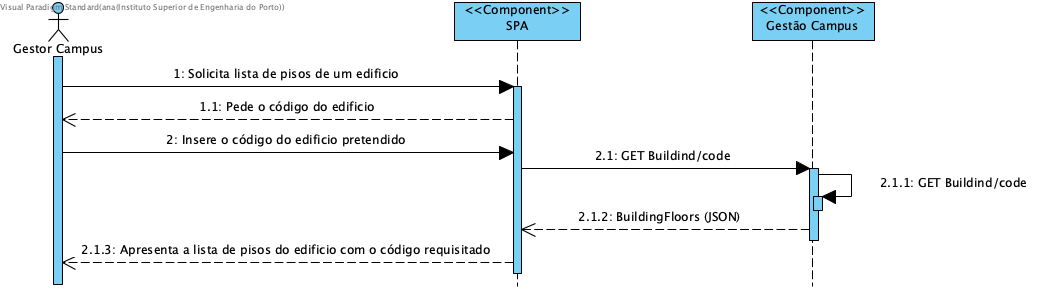
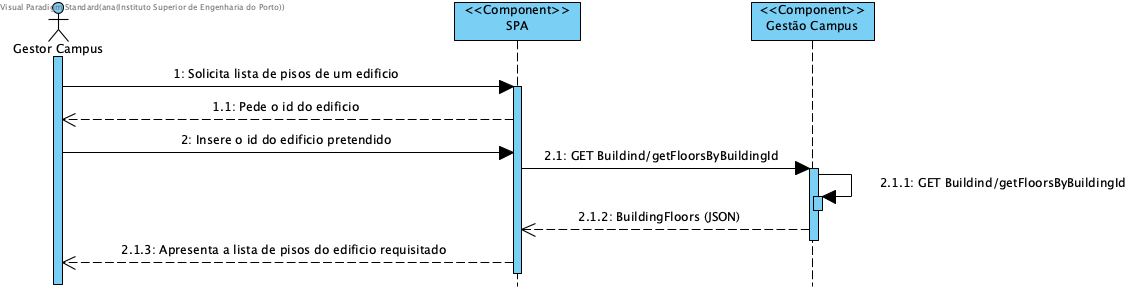
SG3-11 - List all building's floors US210

diff --git a/src/services/buildingService.ts b/src/services/buildingService.ts
@@ -3,18 +3,18 @@ import config from '../../config';
 import { Result } from '../core/logic/Result';
 import IFloorService from './IServices/IFloorService';
 import { IFloorDto } from '../dto/IFloorDto';
-import { Floor } from '../domain/floor';
-import IFloorRepo from './IRepos/IFloorRepo';
 import IBuildingService from './IServices/IBuildingService';
 import IBuildingRepo from './IRepos/IBuildingRepo';
 import { IBuildingDto } from '../dto/IBuildingDto';
 import { Building } from '../domain/building';
+import { BuildingMap } from '../mappers/BuidingMap';
 
 @Service()
 export default class BuildingService implements IBuildingService {
   constructor(
     @Inject(config.repos.building.name) private buildingRepo: IBuildingRepo,
     @Inject('logger') private logger,
+    @Inject('floorService') private floorService: IFloorService
   ) {}
 
   public async save(buildingDto: IBuildingDto): Promise<Result<{ buildingId: string }>> {
@@ -36,4 +36,42 @@ export default class BuildingService implements IBuildingService {
       throw e;
     }
   }
+
+  public async findBuildingByKey(buildingId: string): Promise<Result<IBuildingDto>> {
+    try {
+        const building = await this.buildingRepo.findByDomainId(buildingId);
+
+        if (building === null) {
+            return Result.fail<IBuildingDto>("Truck not found.");
+        } else {
+            const buildingDTOResult = BuildingMap.toDTO(building) as IBuildingDto;
+            return Result.ok<IBuildingDto>(buildingDTOResult)
+        }
+    } catch (e) {
+        throw e;
+    }
+}
+
+public async getFloorsByBuildingId(buildingId: string): Promise<Result<IFloorDto[]>> {
+  try {
+
+    const building = await this.buildingRepo.findByDomainId(buildingId);
+
+    if (building === null) {
+      return Result.fail<IFloorDto[]>("Building not found.");
+    } else {
+      // Once you have the building, you can call the FloorService to get the floors
+      const floors = await this.floorService.getFloorsByBuildingId(buildingId);
+
+      if (floors.isFailure) {
+        return Result.fail<IFloorDto[]>(floors.errorValue());
+      }
+      const floorDTOs = floors.getValue();
+      return Result.ok<IFloorDto[]>(floorDTOs);
+    }
+  } catch (e) {
+    throw e;
+  }
+}
+
 }

diff --git a/src/controllers/buildingController.ts b/src/controllers/buildingController.ts
@@ -16,6 +16,8 @@ export default class BuildingController extends BaseController
   constructor(
     @Inject(config.services.building.name)
     private buildingService: IBuildingService,
+    @Inject(config.services.floor.name)
+    private floorService: IFloorService
   ) {
     super();
   }
@@ -39,4 +41,47 @@ export default class BuildingController extends BaseController
       return next(e);
     }
   }
+
+  public async findBuildingByKey(req: Request, res: Response, next: NextFunction) {
+    try {
+        const buildingId= req.query.buildingId as string;
+
+        if (buildingId === undefined) {
+            return res.status(404).json("Please insert a valid building in the parameters.");
+        }
+
+        const buildingOrError = await this.buildingService.findBuildingByKey(buildingId);
+
+        if (buildingOrError.isFailure) {
+            return res.status(404).json(buildingOrError.error);
+        }
+
+        const buildingDTO = buildingOrError.getValue();
+        return res.status(200).json(buildingDTO);
+    } catch (e) {
+        return next(e);
+    }
+}
+
+public async getFloorsByBuildingId(req: Request, res: Response, next: NextFunction) {
+  try {
+
+    const buildingId = req.query.buildingId as string;
+
+    if (buildingId === undefined) {
+      return res.status(404).json("Building not found");
+    } else {
+
+      const floors = await this.floorService.getFloorsByBuildingId(buildingId);
+
+      if (floors.isFailure) {
+        return Result.fail<IFloorDto[]>(floors.errorValue());
+      }
+      const floorDTOs = floors.getValue();
+      return Result.ok<IFloorDto[]>(floorDTOs);
+    }
+  } catch (e) {
+    throw e;
+  }
+}
 }

diff --git a/src/services/floorService.ts b/src/services/floorService.ts
@@ -5,11 +5,14 @@ import IFloorService from './IServices/IFloorService';
 import { IFloorDto } from '../dto/IFloorDto';
 import { Floor } from '../domain/floor';
 import IFloorRepo from './IRepos/IFloorRepo';
+import IBuildingService from './IServices/IBuildingService';
+import { FloorMap } from '../mappers/FloorMap';
 
 @Service()
 export default class FloorService implements IFloorService {
   constructor(
     @Inject(config.repos.floor.name) private floorRepo: IFloorRepo,
+    @Inject('buildingService') private buildingService: IBuildingService
     @Inject('logger') private logger,
   ) {}
 
@@ -31,4 +34,24 @@ export default class FloorService implements IFloorService {
       throw e;
     }
   }
+
+  public async getFloorsByBuildingId(buildingId: string): Promise<Result<IFloorDto[]>> {
+    try {
+    const buildingExists = await this.buildingService.findBuildingByKey(buildingId);
+
+    if (!buildingExists) {
+      return Result.fail<IFloorDto[]>(`Building with ID ${buildingId} does not exist.`);
+    }
+
+    const floors = await this.floorRepo.findByBuildingId(buildingId);
+    if (!floors) {
+      return Result.fail<IFloorDto[]>(`No floors found for building with ID ${buildingId}.`);
+    }
+    const floorDTOs = floors.map((floor) => FloorMap.toDTO(floor));
+
+      return Result.ok<IFloorDto[]>(floorDTOs);
+    } catch (e) {
+      throw e;
+    }
+}
 }

diff --git a/src/mappers/FloorMap.ts b/src/mappers/FloorMap.ts
@@ -1,6 +1,10 @@
 import { Mapper } from '../core/infra/Mapper';
 import { Room } from '../domain/room';
 import { Floor } from '../domain/floor';
+import { IFloorPersistence } from '../dataschema/IFloorPersistence';
+import { UniqueEntityID } from '../core/domain/UniqueEntityID';
+import { Document, Model } from "mongoose";
+import { IFloorDto } from '../dto/IFloorDto';
 
 export class FloorMap extends Mapper<Floor> {
   public static toPersistence(floor: Floor): any {
@@ -9,5 +13,18 @@ export class FloorMap extends Mapper<Floor> {
       buildingId: floor.buildingId,
       number: floor.number,
     };
+  }
+  public static toDomain (raw: any | Model<IFloorPersistence & Document>): Floor {
+    const floorOrError = Floor.create(raw, new UniqueEntityID(raw.domainId));
+    floorOrError.isFailure ? console.log(floorOrError.error) : '';
+    return floorOrError.isSuccess ? floorOrError.getValue() : null;
+  }
+
+  public static toDTO( floor: Floor): IFloorDto {
+    return {
+      domainId: floor.id.toString(),
+      buildingId: floor.buildingId,
+      number: floor.number,
+    } as IFloorDto;
   }
 }

diff --git a/src/mappers/BuidingMap.ts b/src/mappers/BuidingMap.ts
@@ -2,6 +2,7 @@ import { Mapper } from '../core/infra/Mapper';
 import { Room } from '../domain/room';
 import { Floor } from '../domain/floor';
 import { Building } from '../domain/building';
+import { IBuildingDto } from '../dto/IBuildingDto';
 
 export class BuildingMap extends Mapper<Building> {
   public static toPersistence(building: Building): any {
@@ -12,4 +13,14 @@ export class BuildingMap extends Mapper<Building> {
       length: building.length,
     };
   }
+
+  public static toDTO( building: Building): IBuildingDto {
+    return {
+      domainId: building.id.toString(),
+      designation: building.designation,
+      length: building.length,
+      width: building.width
+    } as IBuildingDto;
+  }
+
 }

diff --git a/src/repos/floorRepo.ts b/src/repos/floorRepo.ts
@@ -25,4 +25,22 @@ export default class FloorRepo implements IFloorRepo {
       throw e;
     }
   }
+
+  public async findByBuildingId(buildingId: string): Promise<Floor[] | null> {
+    try {
+      // Use Mongoose to query floors by buildingId
+      const floors = await this.floorSchema.find({ buildingId }).exec();
+
+      if (floors && floors.length > 0) {
+        // Convert the retrieved documents to domain objects
+        const domainFloors = floors.map((floorDb) => FloorMap.toDomain(floorDb));
+        return domainFloors;
+      } else {
+        return null; // No matching floors found
+      }
+    } catch (error) {
+      throw error;
+    }
+  }
+
 }

diff --git a/src/api/routes/buildingRoute.ts b/src/api/routes/buildingRoute.ts
@@ -24,4 +24,14 @@ export default (app: Router) => {
     }),
     (req, res, next) => ctrl.createBuilding(req, res, next),
   );
+
+  route.get(
+    '/getFloorsByBuildingId', // Define your desired endpoint URL
+    celebrate({
+      query: Joi.object({
+        buildingId: Joi.string().required(),
+      }),
+    }),
+    (req, res, next) => ctrl.getFloorsByBuildingId(req, res, next),
+  );
 };

diff --git a/src/controllers/IControllers/IBuildingController.ts b/src/controllers/IControllers/IBuildingController.ts
@@ -2,4 +2,5 @@ import { Request, Response, NextFunction } from 'express';
 
 export default interface IBuildingController {
   createBuilding(req: Request, res: Response, next: NextFunction);
+  getFloorsByBuildingId(req: Request, res: Response, next: NextFunction);
 }

diff --git a/src/services/IServices/IBuildingService.ts b/src/services/IServices/IBuildingService.ts
@@ -4,4 +4,5 @@ import { IBuildingDto } from '../../dto/IBuildingDto';
 
 export default interface IBuildingService {
   save(buildingDto: IBuildingDto): Promise<Result<{ buildingId: string }>>;
+  findBuildingByKey(buildingId: string): Promise<Result<IBuildingDto>>
 }

diff --git a/src/services/IServices/IFloorService.ts b/src/services/IServices/IFloorService.ts
@@ -3,4 +3,5 @@ import { IFloorDto } from '../../dto/IFloorDto';
 
 export default interface IFloorService {
   save(floorDto: IFloorDto): Promise<Result<{ floorId: string }>>;
+  getFloorsByBuildingId(buildingId:string): Promise<Result<IFloorDto[]>>;
 }

diff --git a/src/services/IRepos/IBuildingRepo.ts b/src/services/IRepos/IBuildingRepo.ts
@@ -3,4 +3,5 @@ import { Building } from '../../domain/building';
 
 export default interface IBuildingRepo {
   save(building: Building): Promise<FloorId>;
+  findByDomainId(buildingId: Building | string): Promise<Building>;
 }

diff --git a/src/services/IRepos/IFloorRepo.ts b/src/services/IRepos/IFloorRepo.ts
@@ -5,4 +5,5 @@ import { FloorId } from '../../domain/floorId';
 
 export default interface IFloorRepo {
   save(floor: Floor): Promise<FloorId>;
+  findByBuildingId(buildingId: string): Promise<Floor[] | null>;
 }
